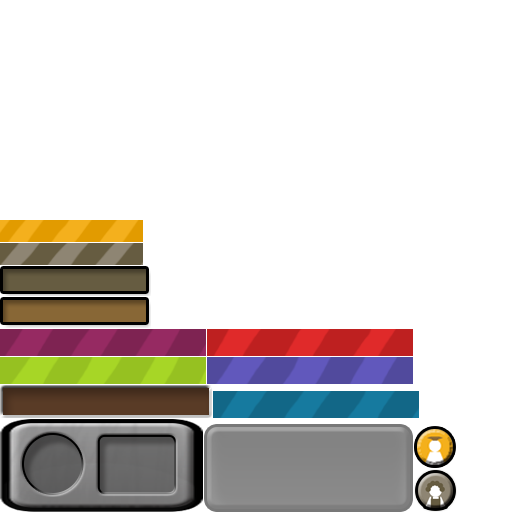
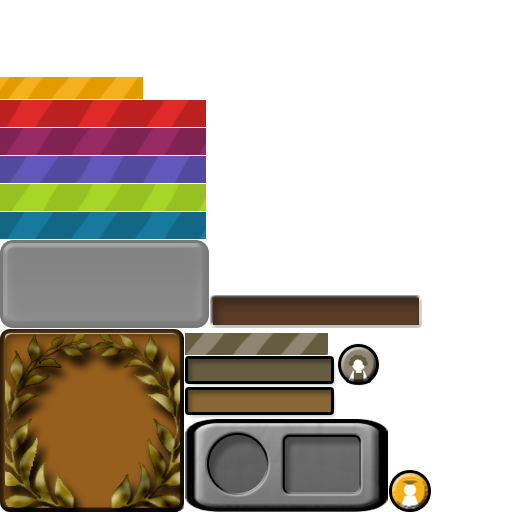
게임 연임 횟수 UI 추가. 연임 다이얼로그 한 번 뜨고 난 뒤에 계속 다시 뜨던 문제 해결.

diff --git a/Assets/Scripts/GameManager.cs b/Assets/Scripts/GameManager.cs
@@ -9,8 +9,10 @@ public class GameManager : MonoBehaviour {
 	public int _startYear;
 	public int _currMonth;
 
+	public int NumberOfTerm;
 	public int IncumbencyYear;
 	int _passedSemester;
+	int _prevCheckedSemester;
 
 	public float NextMonthSpeed;
 
@@ -66,6 +68,7 @@ public class GameManager : MonoBehaviour {
 	public UISlider _gaugeMorality;
 	public UISlider _gaugeSpecialty;
 	public UISlider _gaugeStress;
+	UILabel _yeonimCounterLabel;
 	
 	public GameObject _eventDialogPrefab;
 	private GameObject _currentEventDialog;
@@ -93,6 +96,10 @@ public class GameManager : MonoBehaviour {
 
 		_calendarMonth.text = CalculatedMonth() + "";
 		_calendarDay.text = "1";
+
+		GameObject yeonimUI = GameObject.Find ("Yeonim-num-label") as GameObject;
+		_yeonimCounterLabel = yeonimUI.GetComponent<UILabel> ();
+		_yeonimCounterLabel.text = "0";
 
 		_player = new Player();
 		_eventManager = new EventManager ();
@@ -253,18 +260,25 @@ public class GameManager : MonoBehaviour {
 
 
 		// if passed incumbency years, check satisfaction of parent for next term
-		if( _passedSemester > 0 && _passedSemester % (IncumbencyYear * 2) == 0 ) {
+		if( _passedSemester != _prevCheckedSemester && _passedSemester % (IncumbencyYear * 2) == 0 ) {
 			int numOfTerm = _passedSemester / (IncumbencyYear * 2);
+			if( numOfTerm == NumberOfTerm ) {
+				Application.LoadLevel(2);
+			}
+
 			double needMoreSatisfaction = (numOfTerm - 1) * 1;
 
 			GameObject prefab;
-			if( _player.GetStatus()._variableArray[ Player.Status.IndexSatisfactionParent ] >= 6 + needMoreSatisfaction ) {
+			if( _player.GetStatus()._variableArray[ Player.Status.IndexSatisfactionParent ] >= 0 + needMoreSatisfaction ) {
 				prefab = Resources.Load("DialogYeonimSuccess") as GameObject;
 			} else {
 				prefab = Resources.Load("DialogYeonimFail") as GameObject;
 			}
 
 			NGUITools.AddChild( _uiRoot, prefab );
+			_yeonimCounterLabel.text = "" + numOfTerm;
+
+			_prevCheckedSemester = _passedSemester;
 		}
 
 
